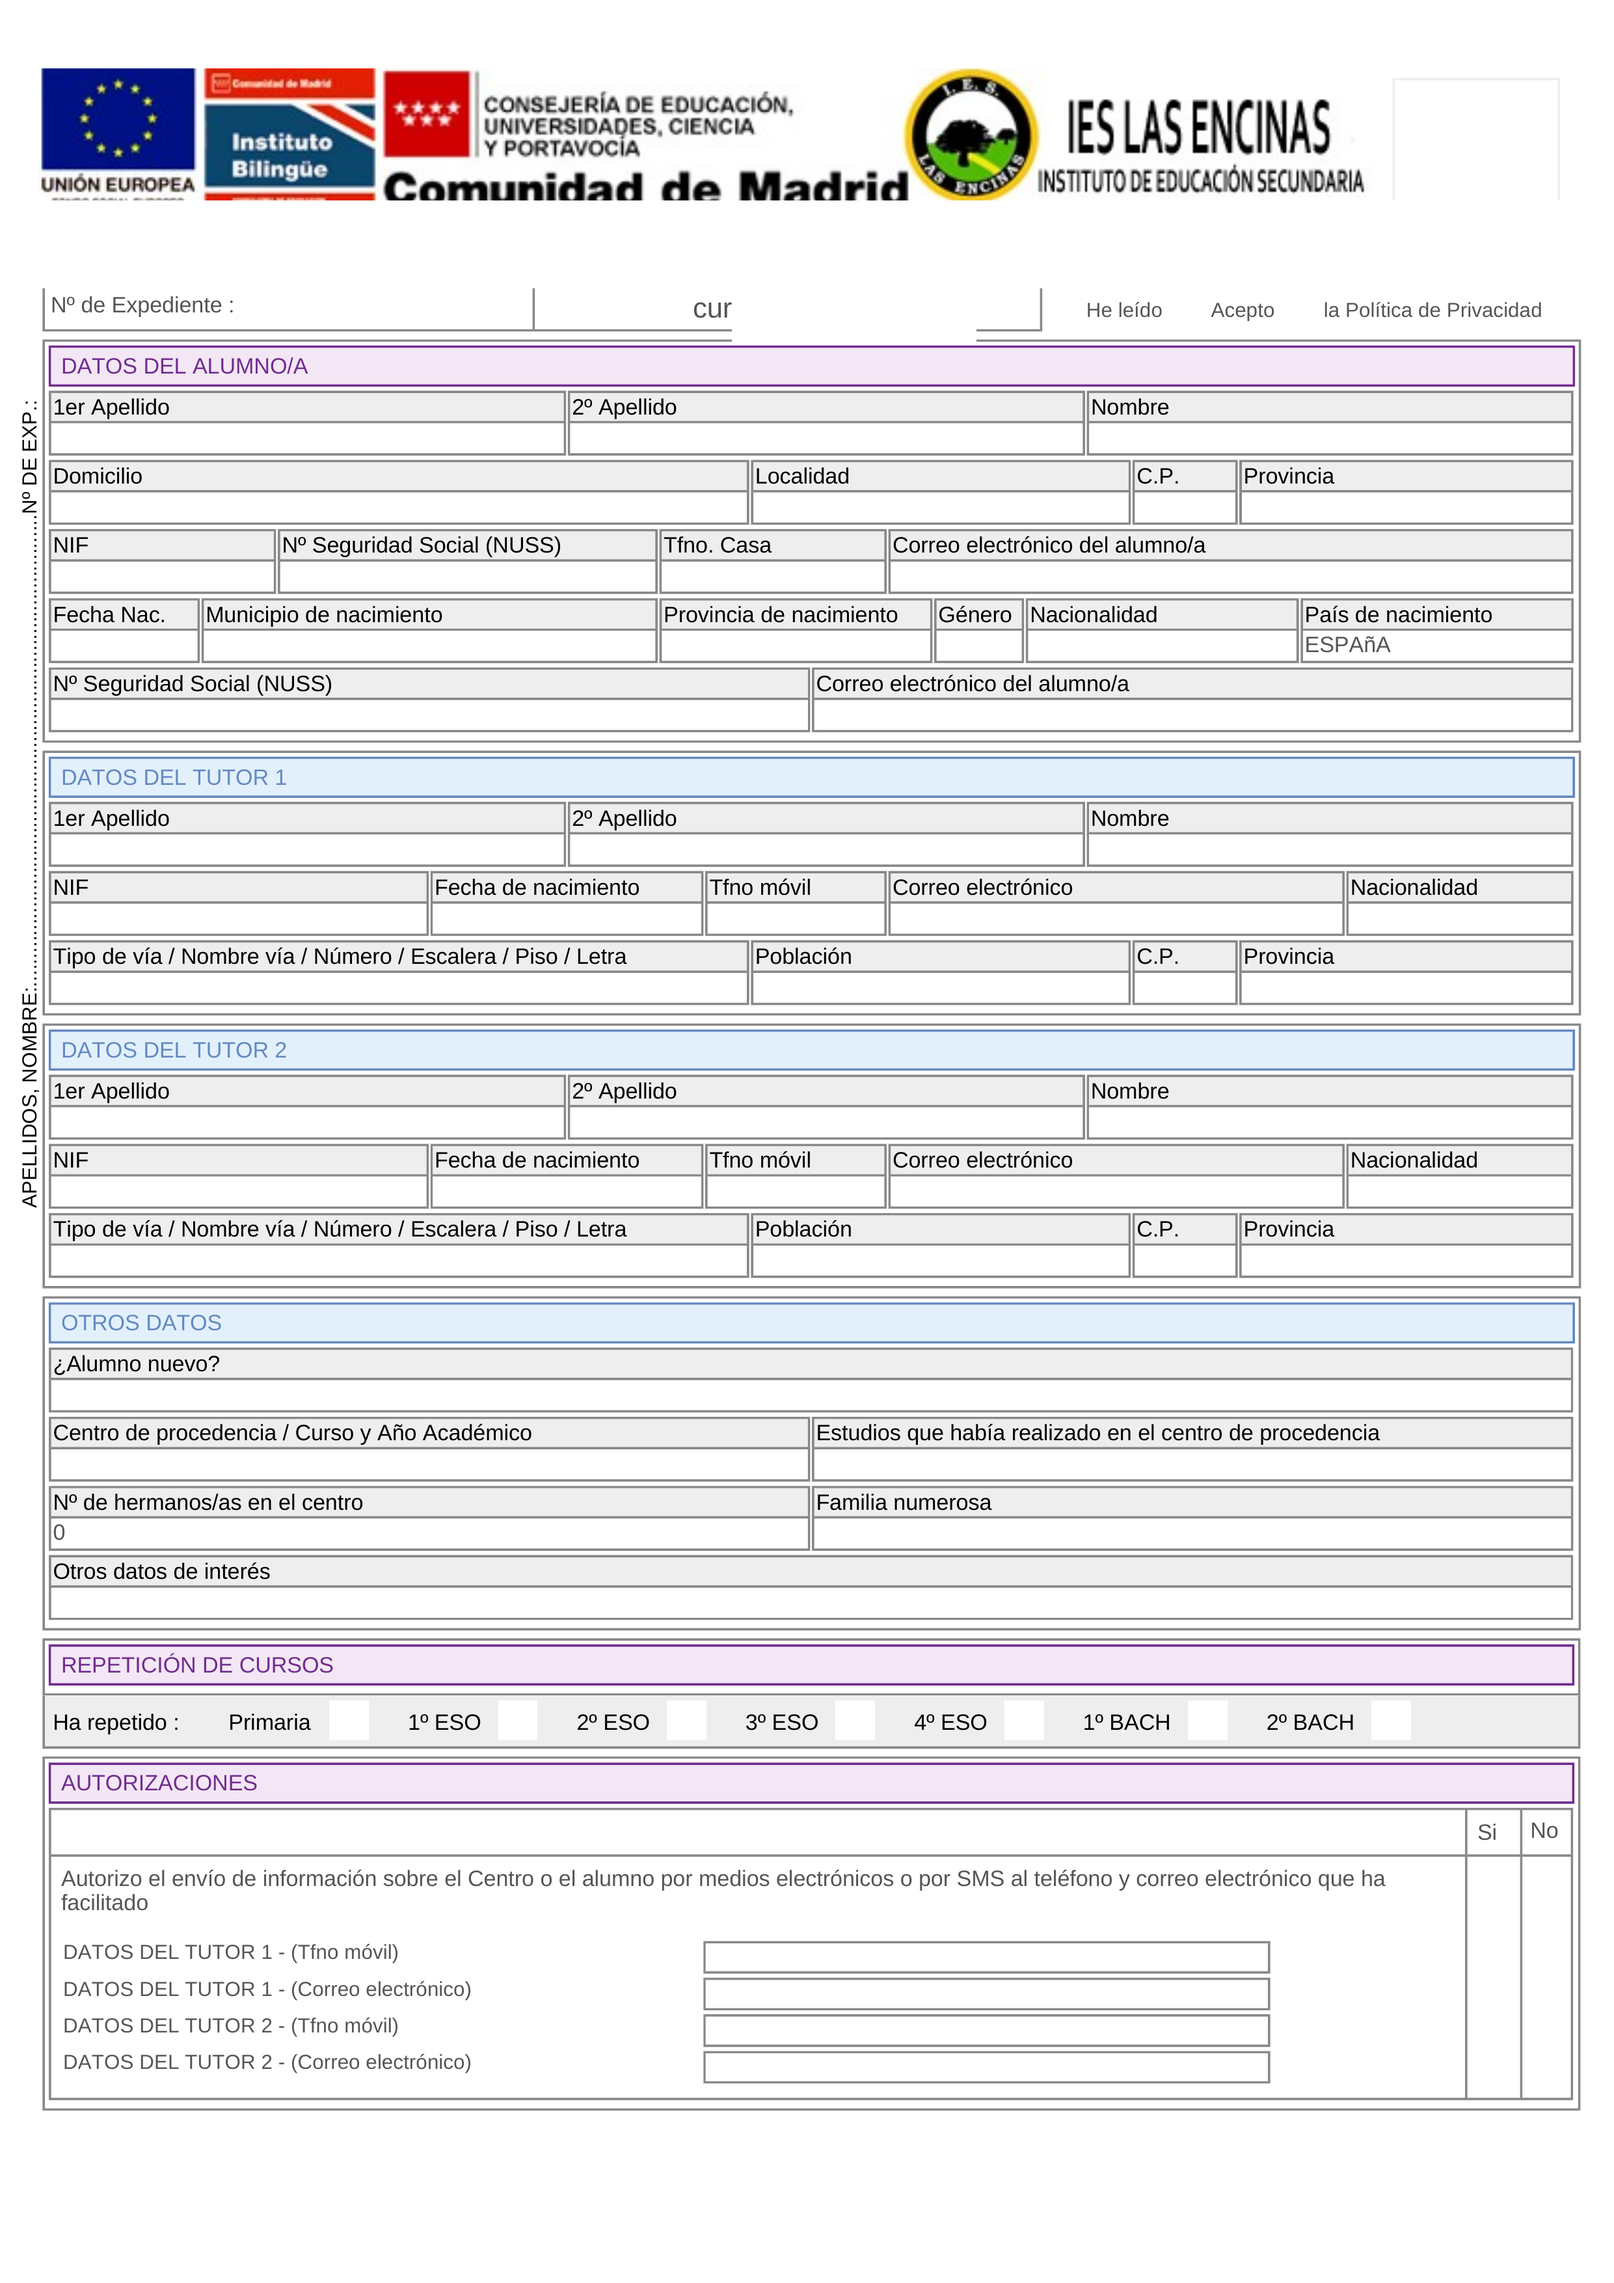
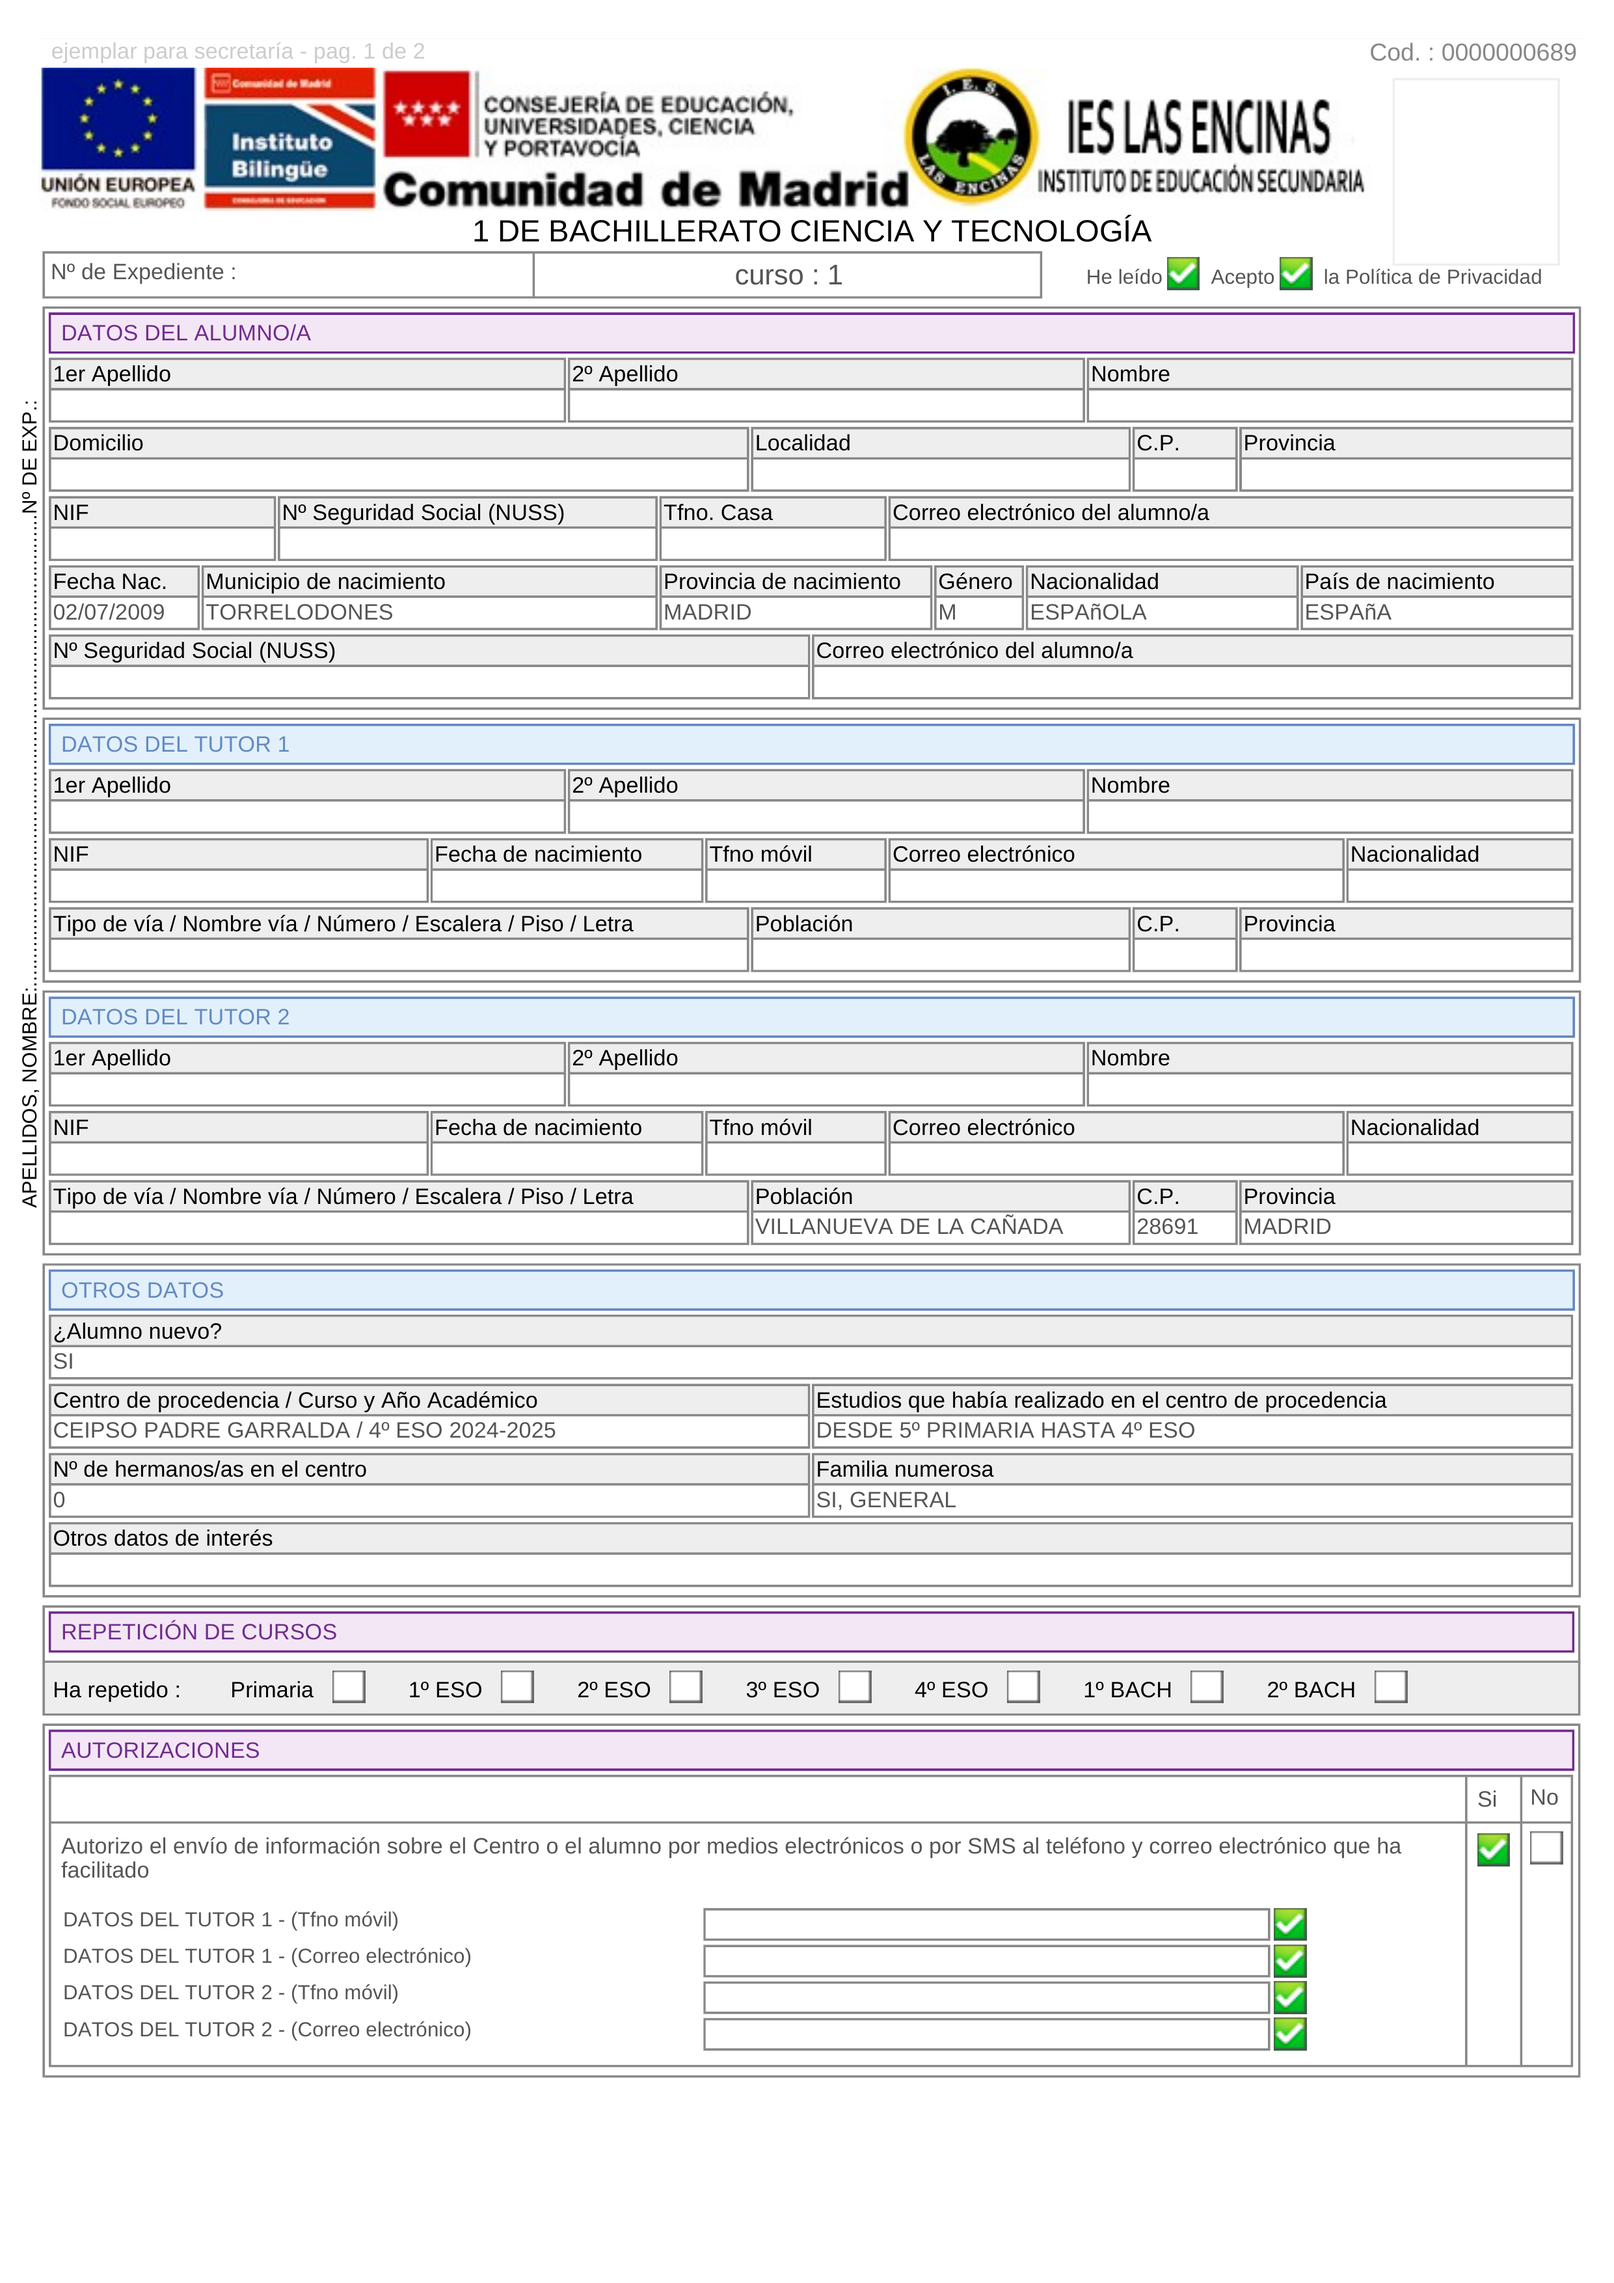
fix: restore model-aligned page backgrounds

Changed region(s): [[0.031, 0.0621, 0.9931, 0.9322], [0.1241, 0.0621, 0.2173, 0.0932], [0.9311, 0.0, 0.9621, 0.0311]]

diff --git a/generator/src/test/java/com/example/matricula/GenerateMatriculaPdfTest.java b/generator/src/test/java/com/example/matricula/GenerateMatriculaPdfTest.java
@@ -11,6 +11,8 @@ import org.apache.pdfbox.pdmodel.interactive.form.PDChoice;
 import org.apache.pdfbox.pdmodel.interactive.form.PDField;
 import org.junit.jupiter.api.Test;
 
+import javax.imageio.ImageIO;
+import java.awt.image.BufferedImage;
 import java.io.IOException;
 import java.lang.reflect.Method;
 import java.nio.charset.StandardCharsets;
@@ -24,6 +26,18 @@ import java.util.Map;
 import static org.junit.jupiter.api.Assertions.*;
 
 class GenerateMatriculaPdfTest {
+
+    @Test
+    void backgroundAssetsKeepOfficialHeaderAndAcademicBody() throws Exception {
+        assertTrue(
+                darkPixelRatio(Path.of("../assets/backgrounds/bg_page1.png"), 450, 220, 2050, 480) >= 0.24,
+                "Page 1 background should keep the official title/subtitle block under the logos"
+        );
+        assertTrue(
+                darkPixelRatio(Path.of("../assets/backgrounds/bg_page2.png"), 60, 730, 2420, 1900) >= 0.15,
+                "Page 2 background should keep the central academic block instead of leaving a blank middle section"
+        );
+    }
 
     @Test
     void academicChoiceFieldsRefreshOnCommitWithReentryGuard() throws Exception {
@@ -302,6 +316,28 @@ class GenerateMatriculaPdfTest {
         assertNotNull(upper);
         assertNotNull(lower);
         return upper.getRectangle().getLowerLeftY() - lower.getRectangle().getUpperRightY();
+    }
+
+    private static double darkPixelRatio(Path path, int x0, int y0, int x1, int y1) throws IOException {
+        BufferedImage image = ImageIO.read(path.toFile());
+        assertNotNull(image, () -> "Could not read image " + path);
+
+        int darkPixels = 0;
+        int totalPixels = 0;
+        for (int y = y0; y < y1; y++) {
+            for (int x = x0; x < x1; x++) {
+                int rgb = image.getRGB(x, y);
+                int r = (rgb >> 16) & 0xff;
+                int g = (rgb >> 8) & 0xff;
+                int b = rgb & 0xff;
+                if (r < 240 || g < 240 || b < 240) {
+                    darkPixels++;
+                }
+                totalPixels++;
+            }
+        }
+
+        return totalPixels == 0 ? 0.0 : (double) darkPixels / totalPixels;
     }
 
     private static boolean isAllowedDynamicOverlap(String leftName, String rightName) {
